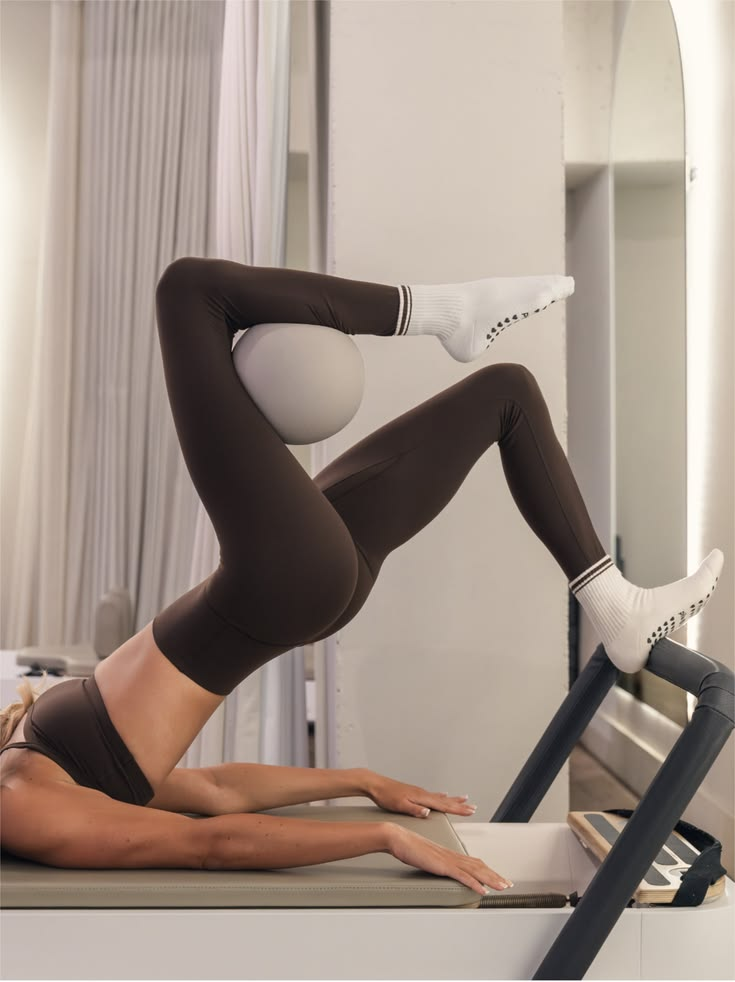
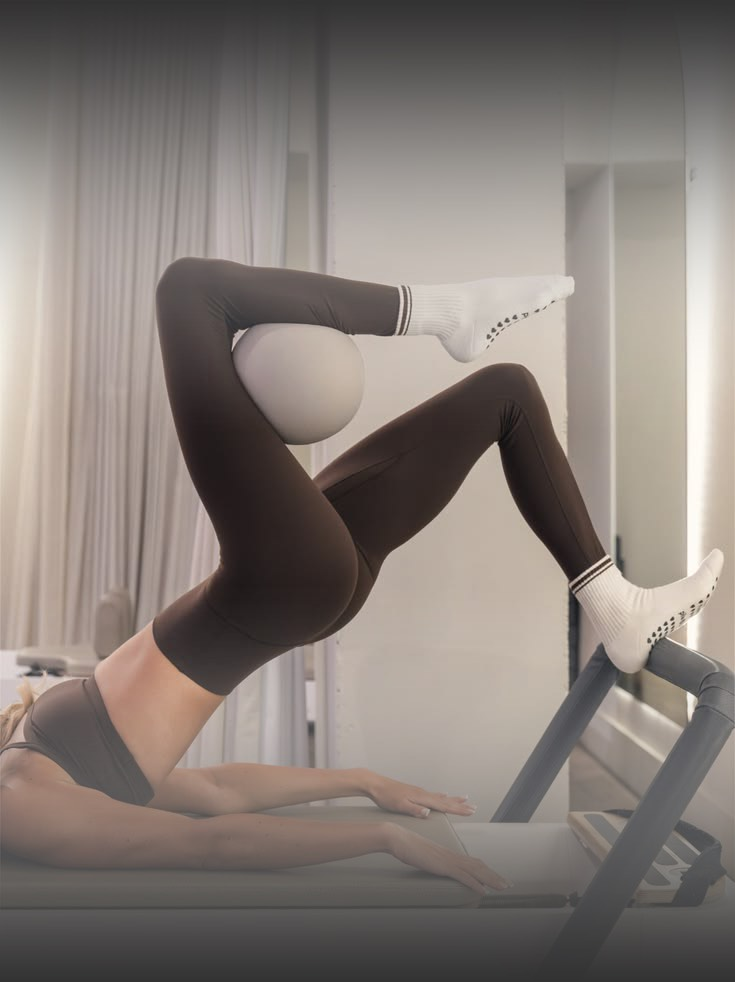
modifiche foto sfondo gradienti

diff --git a/src/screens/Home.jsx b/src/screens/Home.jsx
@@ -1,6 +1,18 @@
+import { useEffect } from 'react'
 import { LOGO, FOTO_HOME, NOME_STUDIO } from '../config'
 
 export default function Home({ onPrenota }) {
+    useEffect(() => {
+        const meta = document.querySelector('meta[name="theme-color"]')
+        meta?.setAttribute('content', '--charcoal')
+        document.documentElement.classList.add('home-attiva')
+
+        return () => {
+            meta?.setAttribute('content', '#ffffff')
+            document.documentElement.classList.remove('home-attiva')
+        }
+    }, [])
+
     return (
         <main className="home" style={{ backgroundImage: `url(${FOTO_HOME})` }}>
             <div className="home-overlay" />

diff --git a/src/index.css b/src/index.css
@@ -102,11 +102,6 @@ input:focus-visible {
   justify-content: center;
 }
 
-.home-overlay {
-  position: absolute;
-  inset: 0;
-  background: linear-gradient(to top, rgba(0, 0, 0, 0.9) 0%, rgba(0, 0, 0, 0.55) 45%, rgba(0, 0, 0, 0.2) 100%);
-}
 
 .home-contenuto {
   position: relative;
@@ -120,6 +115,11 @@ input:focus-visible {
 .home-logo {
   width: min(60vw, 280px);
   height: auto;
+}
+
+html.home-attiva,
+html.home-attiva body {
+  background: var(--charcoal);
 }
 
 /* ---------- Pagina 2: Prenota ---------- */

diff --git a/index.html b/index.html
@@ -4,7 +4,7 @@
 <head>
   <meta charset="UTF-8" />
   <link rel="icon" type="image/svg+xml" href="/favicon.svg" />
-  <meta name="viewport" content="width=device-width, initial-scale=1.0, viewport-fit=cover" />
+  <meta name="viewport" content="width=device-width, initial-scale=1.0," />
   <title>StayFit - Prenotazioni Reformer</title>
 </head>
 
